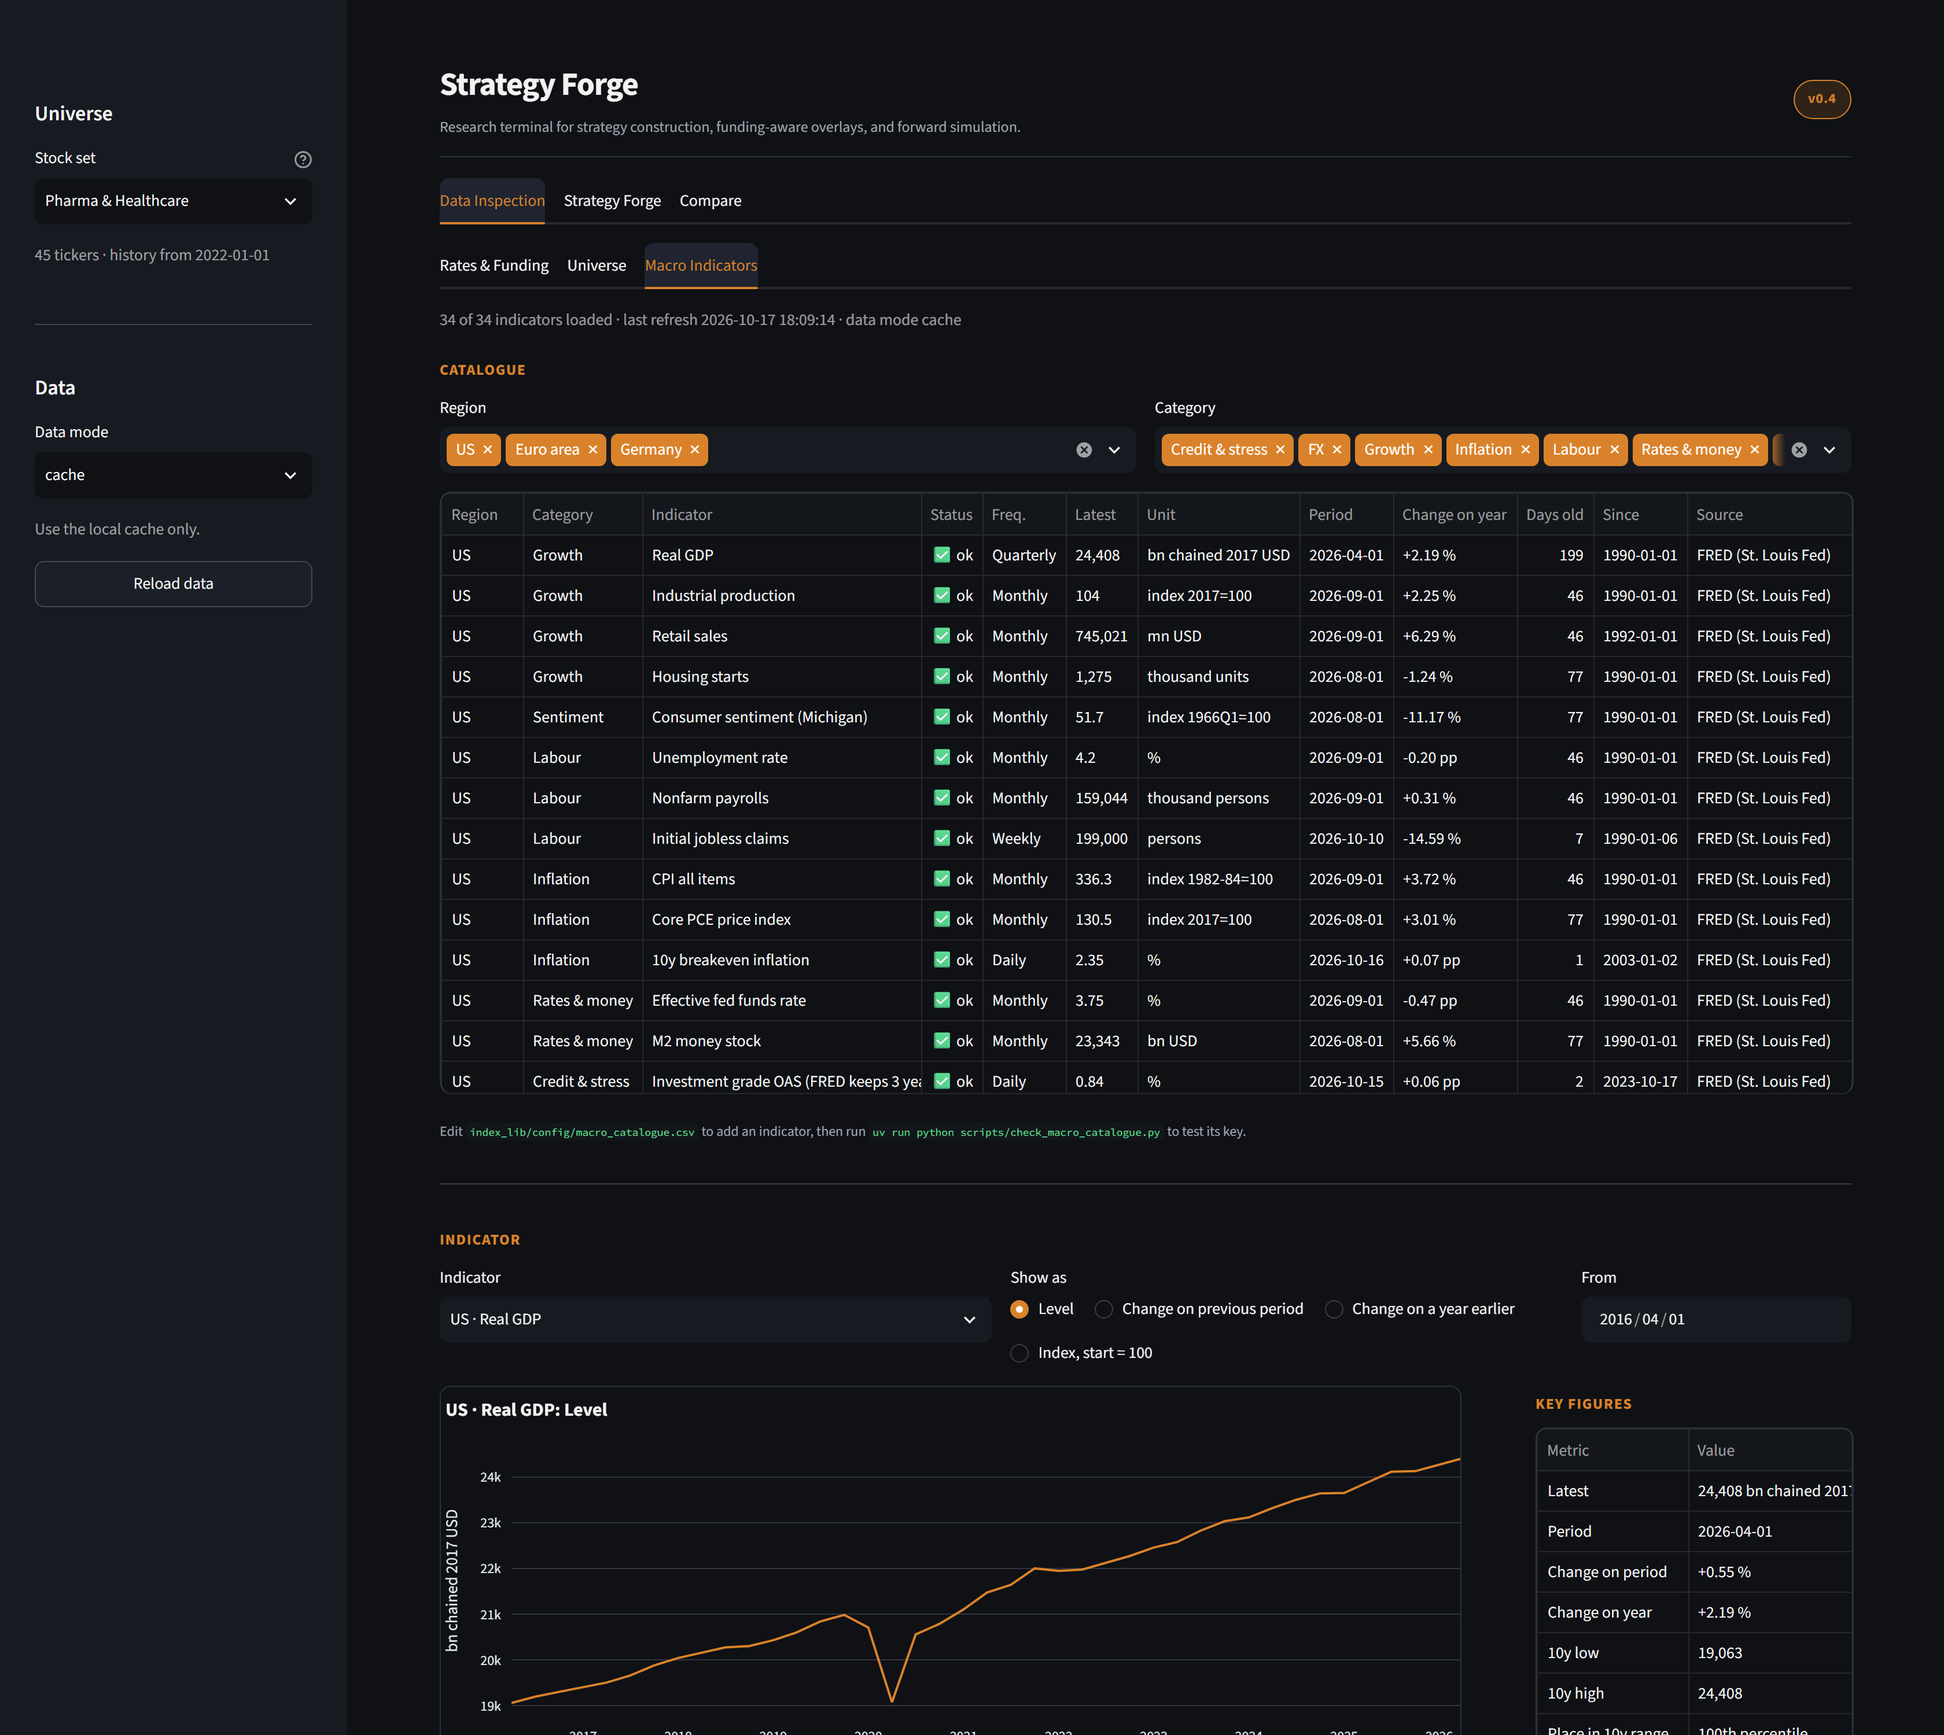
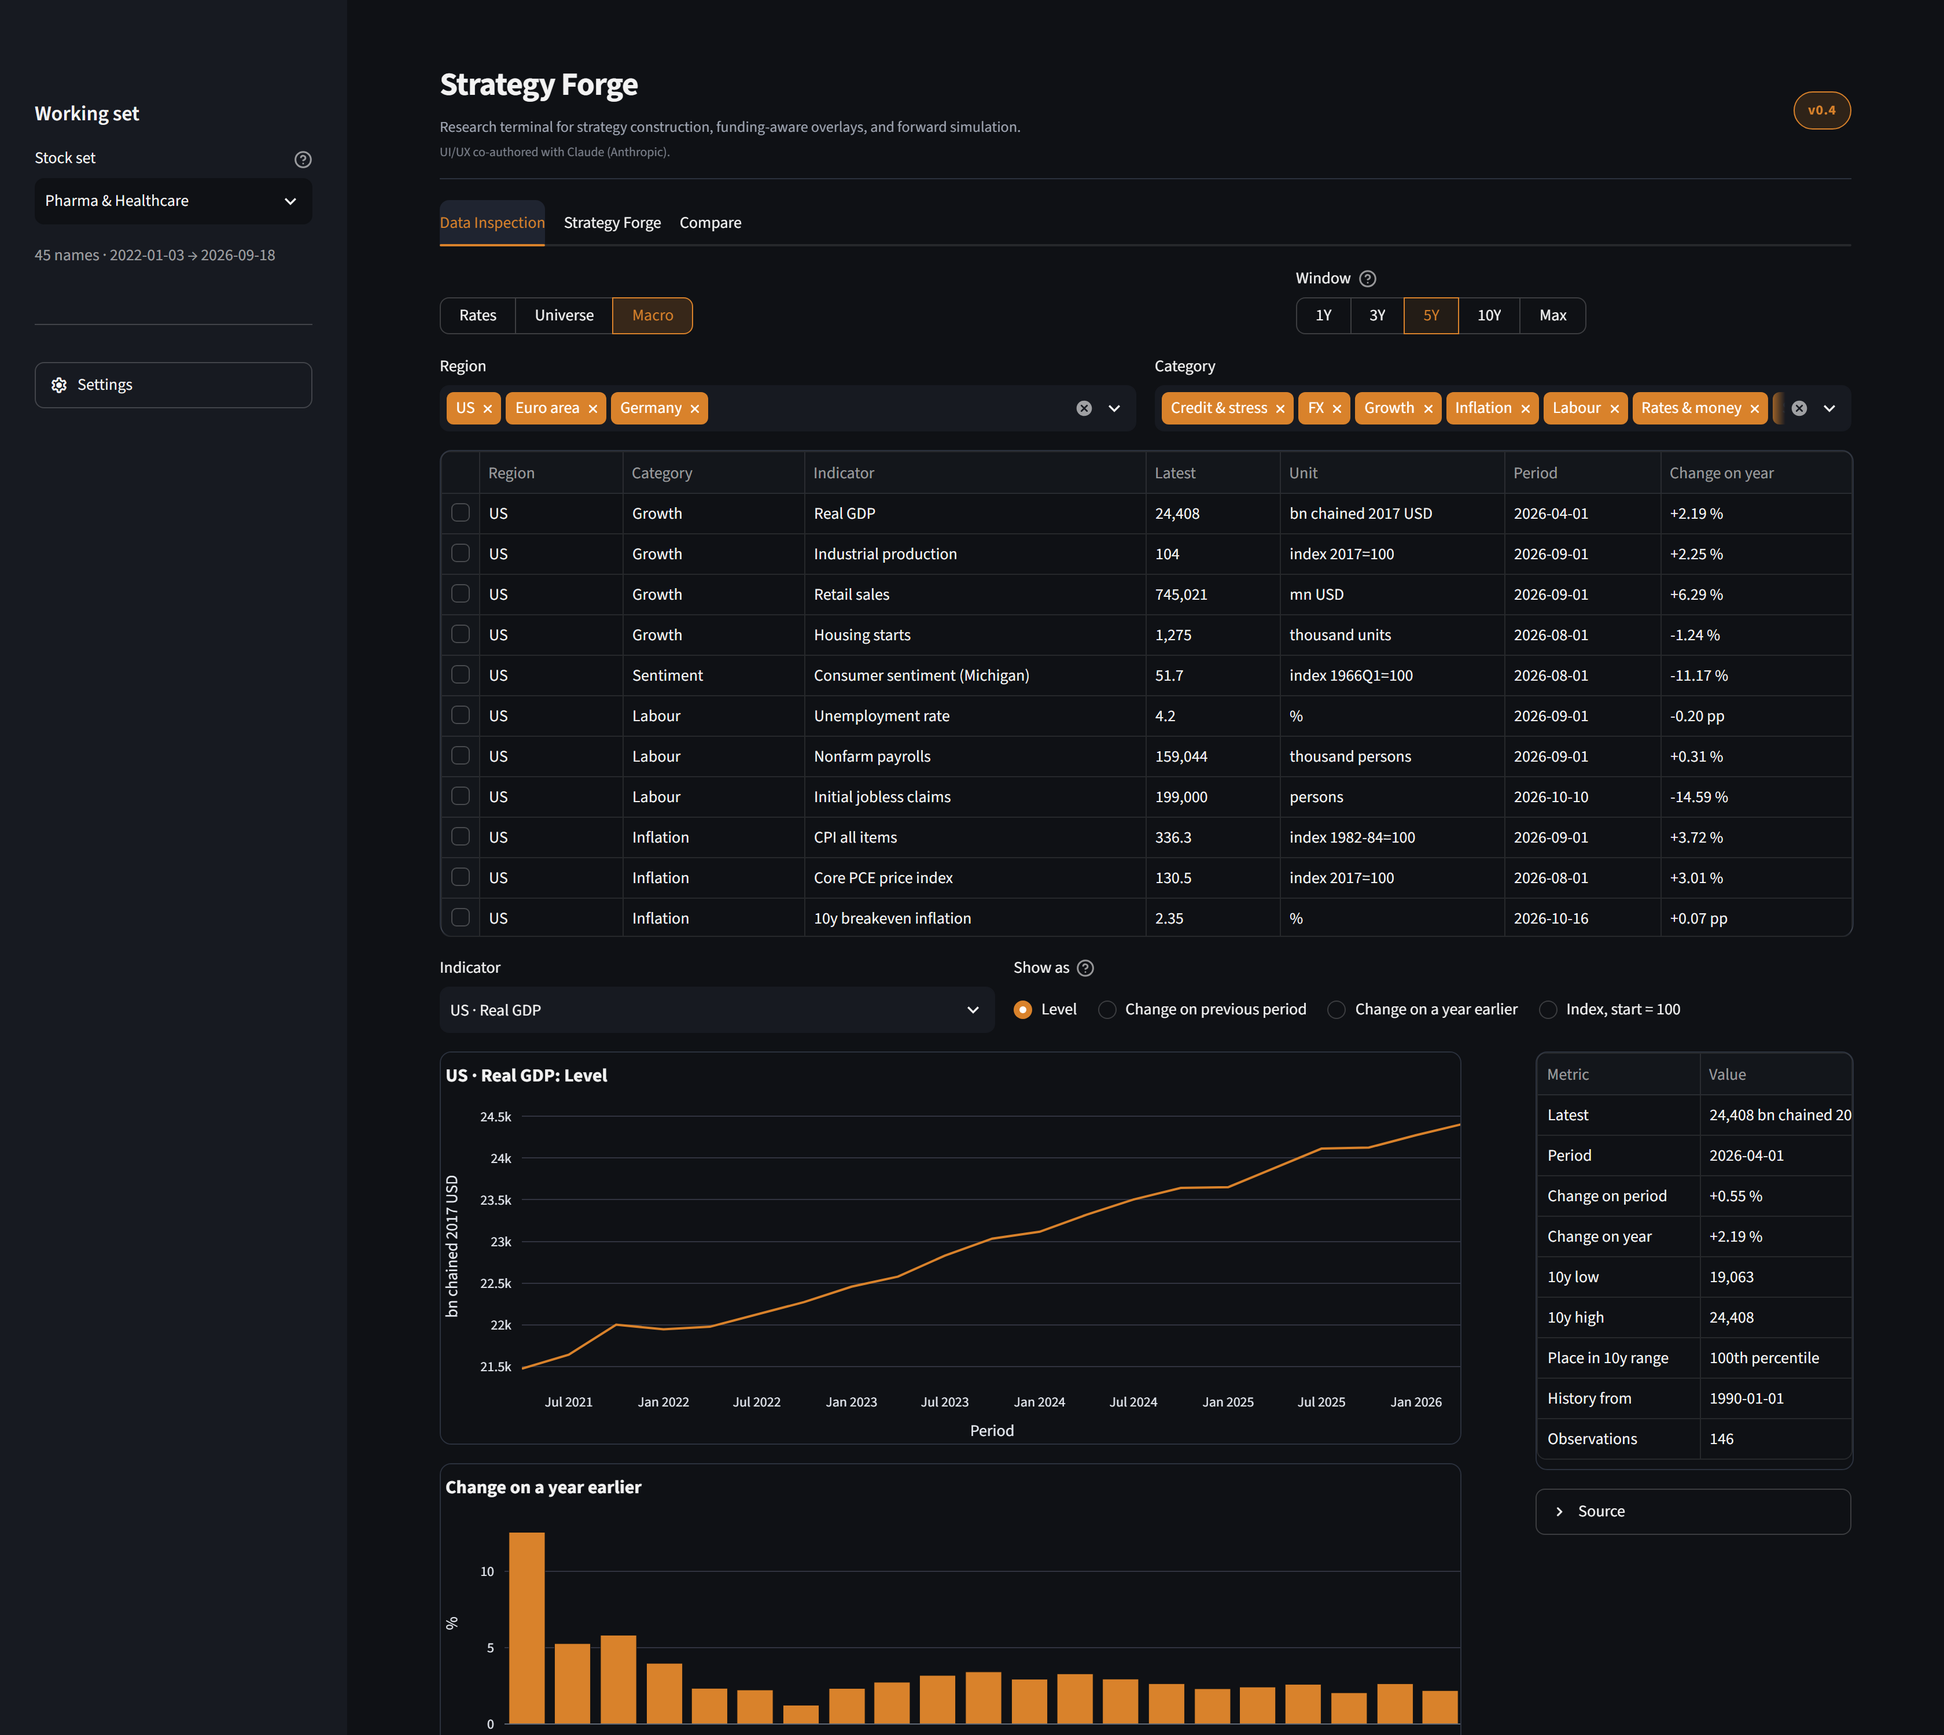
|docs| Clean-up results, README and screenshots

diff --git a/scripts/screenshots.py b/scripts/screenshots.py
@@ -236,62 +236,85 @@ def capture() -> None:
             page.evaluate("window.scrollTo(0, 0)")
             page.wait_for_timeout(4_000)
 
+        def pill(label: str) -> None:
+            """Sub-views are segmented controls, exposed as radios, not tabs."""
+            try:
+                buttons = page.get_by_role("radio", name=label, exact=True).all()
+                visible = [b for b in buttons if b.is_visible()]
+                (visible or buttons)[0].click()
+                page.evaluate("window.scrollTo(0, 0)")
+                page.wait_for_timeout(4_000)
+            except Exception as exc:
+                print(f"    (could not open {label!r}: {exc})")
+
         tab("Data Inspection")
 
-        tab("Rates & Funding")
-        _shot(page, "rates.png")
-        _shot(page, "rates_surface.png", section="The curve over time")
-        _shot(page, "rates_factors.png", section="What moves the curve")
-        _shot(page, "rates_moves.png", section="Curve moves")
+        pill("Rates")
+        for view, filename in (
+            ("Snapshot", "rates.png"),
+            ("Surface", "rates_surface.png"),
+            ("Factors", "rates_factors.png"),
+            ("Moves", "rates_moves.png"),
+        ):
+            pill(view)
+            _shot(page, filename)
 
-        tab("Universe")
+        _choose(page, "Curve", "EUR AAA government")
+        pill("Snapshot")
+        _shot(page, "rates_eur.png")
+
+        pill("Universe")
+        pill("Overview")
         _shot(page, "universe.png")
-        _shot(page, "universe_correlation.png", section="Correlation")
+        pill("Correlation")
+        _shot(page, "universe_correlation.png")
 
-        tab("Macro Indicators")
+        pill("Macro")
         _shot(page, "macro.png")
-        _shot(page, "macro_indicator.png", section="Indicator")
+
+        _open_panel(page, "Settings")
+        _shot(page, "settings.png")
 
         tab("Strategy Forge")
-        _open_panel(page, "Strategy Library")
-        _open_panel(page, "Saved Runs")
-        page.wait_for_timeout(2_000)
         _shot(page, "strategy_forge.png")
 
         # An optimizer, so the diagnostics include what the solver reported.
         _choose(page, "Construction method", "Minimum Variance")
-        has_optimizer = page.locator(
-            ".section-header", has_text="What the optimizer did"
-        ).count()
+        _open_panel(page, "What the optimizer did")
+        has_optimizer = page.get_by_text("What the optimizer did").count()
         print(f"    optimizer panel present: {bool(has_optimizer)}")
         _shot(page, "strategy_diagnostics.png", section="Diagnostics")
 
-        # The simulation panel is empty until something has been simulated.
+        # The simulation panel is closed and empty until something is simulated.
+        _open_panel(page, "Monte Carlo simulation")
         try:
-            page.get_by_role(
-                "button", name="Run Monte Carlo"
-            ).scroll_into_view_if_needed()
-            page.get_by_role("button", name="Run Monte Carlo").click()
+            run = page.get_by_role("button", name="Run Monte Carlo")
+            run.scroll_into_view_if_needed()
+            run.click()
             page.wait_for_timeout(25_000)
+            page.get_by_text("Monte Carlo simulation").first.evaluate(
+                "el => el.scrollIntoView({block: 'start', behavior: 'instant'})"
+            )
+            page.wait_for_timeout(2_000)
         except Exception as exc:
             print(f"    (Monte Carlo did not run: {exc})")
-
-        _shot(page, "monte_carlo.png", section="Monte Carlo Simulation")
+        _shot(page, "monte_carlo.png")
 
         tab("Compare")
         _shot(page, "compare.png")
 
-        # A multi-asset book with class budgets: the selector, the budgets, and
-        # the class mix in the diagnostics.
+        # A multi-asset book with class budgets: the selector, the budget table,
+        # and the class mix in the diagnostics.
         _choose(page, "Stock set", "Multi-asset (ETFs)")
         page.wait_for_timeout(8_000)
         tab("Strategy Forge")
+        _open_panel(page, "Class budgets")
         try:
             page.get_by_text("Fixed budget per asset class").first.click()
             page.wait_for_timeout(8_000)
         except Exception as exc:
             print(f"    (could not switch class budgets on: {exc})")
-        _shot(page, "multi_asset_budgets.png", section="Holdings")
+        _shot(page, "multi_asset_budgets.png", section="Construction")
 
         try:
             page.get_by_role("tab", name="Asset classes").first.click()

diff --git a/README.md b/README.md
@@ -45,17 +45,25 @@ uv run streamlit run app.py
 
 Open the URL Streamlit prints (by default <http://localhost:8501>).
 
-### Data mode
+### Sidebar
 
-A sidebar control, not a command-line flag:
+Only what applies to every tab:
 
-| Mode | Behaviour |
+- **Working set**: the stock set Universe, Strategy Forge and Compare use, with
+  its real date range.
+- **Settings** (closed by default): data mode, reload, and **Data status**, the
+  latest observation of every source and any failures.
+
+| Data mode | Behaviour |
 | --- | --- |
-| `refresh` | Fetch fresh data, update the cache, fail loudly on API errors. The error says when a usable cache exists. |
-| `cache` | Never call external APIs; read the local cache only. |
-| `auto` | Fetch fresh data, fall back to the cache if that fails. |
+| Cache only | Never call external APIs; read the local cache only. |
+| Refresh, fall back to cache | Fetch fresh data, fall back to the cache if that fails. |
+| Refresh, fail on errors | Fetch fresh data; stop on price or rates errors. |
 
-**Reload data** clears the caches and reloads under the selected mode.
+Macro and curve failures never stop the app; they show in Data status and as a
+warning on the affected view.
+
+Controls that need explaining carry an info button (ⓘ / ?).
 
 ---
 
@@ -63,22 +71,27 @@ A sidebar control, not a command-line flag:
 
 | Tab | What it is for |
 | --- | --- |
-| **Data Inspection** | Rates & Funding, Universe and Macro Indicators, one sub-tab each |
+| **Data Inspection** | Rates, Universe and Macro, chosen with pills, over one shared window (1Y to Max) |
 | **Strategy Forge** | Build, save, backtest, diagnose and simulate a strategy |
 | **Compare** | Recorded runs, single stocks and benchmarks side by side |
 
-### Rates & Funding
+### Rates
 
-Two dated USD Treasury curves and the change between them; the whole curve over
-time as a **3D surface** or a **heatmap** (of yields, or of 21-day changes);
-tenor, spread and SOFR history; and two analyses of what moves the curve:
+Pick a curve, **USD Treasury** (FRED), **EUR AAA government** (ECB) or **German
+Bunds** (Bundesbank), each with its funding rate (SOFR or €STR). Then one of
+five views:
 
-- **Factor decomposition.** Level, slope and curvature, either as principal
+- **Snapshot**: two dated curves, the change between them, and key levels.
+- **Surface**: the whole curve over time as a 3D surface or a heatmap of yields
+  or 21-day changes.
+- **History**: tenors, spreads and the funding rate.
+
+- **Factors**: level, slope and curvature, either as principal
   components of yield changes (loadings, variance explained, cumulative factor
   moves) or model-free from the 2y, 5y and 10y. The 1-month bill is left out of
   the PCA by default; it moves on bill supply and debt-ceiling news and would
   otherwise take over the second component.
-- **Curve moves.** Every daily, weekly or monthly move of a short/long pair
+- **Moves**: every daily, weekly or monthly move of a short/long pair
   (2s10s, 3m10y, 5s30s, 2s30s) named as a bull or bear steepener or flattener,
   a twist, or a parallel shift, with how often each happened and how large it was.
 
@@ -88,26 +101,26 @@ tenor, spread and SOFR history; and two analyses of what moves the curve:
 
 ### Universe
 
-The loaded set grouped by asset class with return, volatility, Sharpe and
-drawdown per name; growth of 100 and drawdowns for up to eight names; the
-correlation of daily returns ordered by class; and the single-name inspector.
+Four views: an overview grouped by asset class (return, volatility, Sharpe,
+drawdown per name); performance (growth of 100 and drawdowns for up to eight
+names); correlation of daily returns ordered by class; and a single name.
 
 ![Universe](docs/screenshots/universe.png)
 
-### Macro Indicators
+### Macro
 
 A catalogue of 34 indicators for the US, the euro area and Germany: growth,
 labour, inflation, sentiment, rates and money, credit and stress, FX. The
-catalogue table shows each one's latest reading, change on the year, how many
-days old it is and whether it loaded. The inspector shows one indicator as a
+catalogue table shows each one's latest reading and change on the year; click a
+row to open it. The inspector shows one indicator as a
 level, a change on the previous period, a change on a year earlier, or indexed
 to 100, with a complementary second chart, key figures (including where today's
 value sits in its ten-year range) and a CSV download.
 
-Changes are computed on the full history before cutting to the start date. A
+Changes are computed on the full history before cutting to the window. A
 level changes in percent; a rate (unemployment, a yield) in percentage points.
 
-![Macro](docs/screenshots/macro_indicator.png)
+![Macro](docs/screenshots/macro.png)
 
 ### Stock sets
 
@@ -198,9 +211,11 @@ as before.
 
 ### How much is invested
 
-**Invested %** decides how much of the book is in the strategy; the rest sits in
-cash earning SOFR. At 100% there is no cash leg and nothing changes. Long-only
-means no shorting, not fully invested, so a long-only book may hold cash.
+**Net exposure** decides how much of the book is in the strategy; the rest sits
+in cash earning SOFR. At 100% there is no cash leg and nothing changes. It is one
+control for both forms: for long-only it is the invested fraction (up to 100%),
+for long/short it is longs minus shorts. Long-only means no shorting, not fully
+invested, so a long-only book may hold cash.
 
 Exposure is reported as it actually is, including the volatility overlay: a book
 running at 0.34x shows as 34% exposed, not 100%.
@@ -230,6 +245,10 @@ leverage, and the borrow spread.
 ---
 
 ## 💾 Saving your work
+
+The **Library** and **Recorded runs** buttons at the top of the Strategy Forge
+open saved work. **Record run** sits under the backtest it records; a run left
+unnamed is named after its method and dates.
 
 Three different things can be kept, and the difference between them is the point.
 
@@ -469,6 +488,7 @@ $$
 | Yahoo Finance | Market caps, sector metadata | `data/*.parquet` |
 | FRED | SOFR and the Treasury curve | `data/*.parquet` |
 | FRED, ECB, Eurostat, Bundesbank | Macro indicators | `data/macro_series.parquet` |
+| FRED, ECB, Bundesbank | Inspectable curves, SOFR, €STR | `data/curves_series.parquet` |
 
 ### Macro indicators
 
@@ -551,7 +571,9 @@ index_lib/core/rates.py                         curve factors and curve moves
 index_lib/config/universes.py                   stock sets and benchmarks
 index_lib/config/asset_classes.py               asset classes and ETF tags
 index_lib/config/macro_catalogue.csv            the macro indicator catalogue
-index_lib/loaders/macro_cache.py                FRED and SDMX fetchers, macro cache
+index_lib/loaders/macro_cache.py                FRED and SDMX fetchers, series cache
+index_lib/config/curves.py                      inspectable curves and funding rates
+index_lib/loaders/curve_cache.py                curves built from the series cache
 ```
 
 ### Interface
@@ -561,9 +583,11 @@ index_lib/loaders/macro_cache.py                FRED and SDMX fetchers, macro ca
 ```text
 index_lib/ui/cache.py       Streamlit caching in front of the runner
 index_lib/ui/session.py     session state and how it maps onto the controls
-index_lib/ui/rates.py       Data Inspection: Rates & Funding
+index_lib/ui/settings.py    sidebar settings and data status
+index_lib/ui/inspection.py  Data Inspection: view pills and shared window
+index_lib/ui/rates.py       Data Inspection: Rates
 index_lib/ui/universe.py    Data Inspection: Universe
-index_lib/ui/macro.py       Data Inspection: Macro Indicators
+index_lib/ui/macro.py       Data Inspection: Macro
 index_lib/ui/forge.py       Strategy Forge tab
 index_lib/ui/comparison.py  Compare tab
 index_lib/ui/figures.py     Plotly figure builders

diff --git a/docs/USER_JOURNEY.md b/docs/USER_JOURNEY.md
@@ -305,3 +305,31 @@ The clean-up passes when all of the following hold:
 4. Macro and Universe: row selection, lean catalogue, and the shared window.
 5. Compare: newest run preselected; correlation as a heatmap.
 6. Re-measure B1–B5 and update this document with the results.
+
+## 12. Result (2026-10-18)
+
+Steps 1–6 built. Recounted on the built screens:
+
+| # | Target | Built | Method on the built screens |
+| --- | --- | --- | --- |
+| B1 | 2.7 s | 2.7 s | M + click *Moves* |
+| B2 | 4.0 s + R | 4.0 s + R | M + pick *EUR AAA* in Curve |
+| B3 | ≈ 38 s + 5R | ≈ 33 s + 5R | Record no longer needs a name (−5.9 s); *Class budgets* expander adds one click (+1.3 s) |
+| B4 | 2.7 s | 2.7 s | M + open Settings |
+| B5 | ≈ 3.8 s | ≈ 3.8 s | one screen down + open the optimizer expander |
+
+Checks from section 10:
+
+| Check | Result |
+| --- | --- |
+| 1. B1–B5 at or under target | Yes |
+| 2. One screen from controls to result | Yes: Forge backtest starts below the controls; inspection views fit one screen |
+| 3. Global settings only in sidebar Settings | Yes: data mode, reload, data status |
+| 4. Pills vs tabs at a glance | Yes: segmented pills below underlined tabs |
+| 5. Section 7 items behind one click | Yes; nothing removed |
+| 6. Redundancies | R1 merged; R2 kept, with info buttons; R3–R7 resolved |
+| 7. Info buttons on section 6 controls | Yes; "VaR alpha" renamed "Tail (%)" |
+| 8. Tests and saved strategies | All pass; old files load (R1 also fixes invested % not being restored on load) |
+
+Beyond the plan: Universe got the same view pills as Rates (consistency), and
+the curve loader gives USD history from 1990 instead of 2022.
